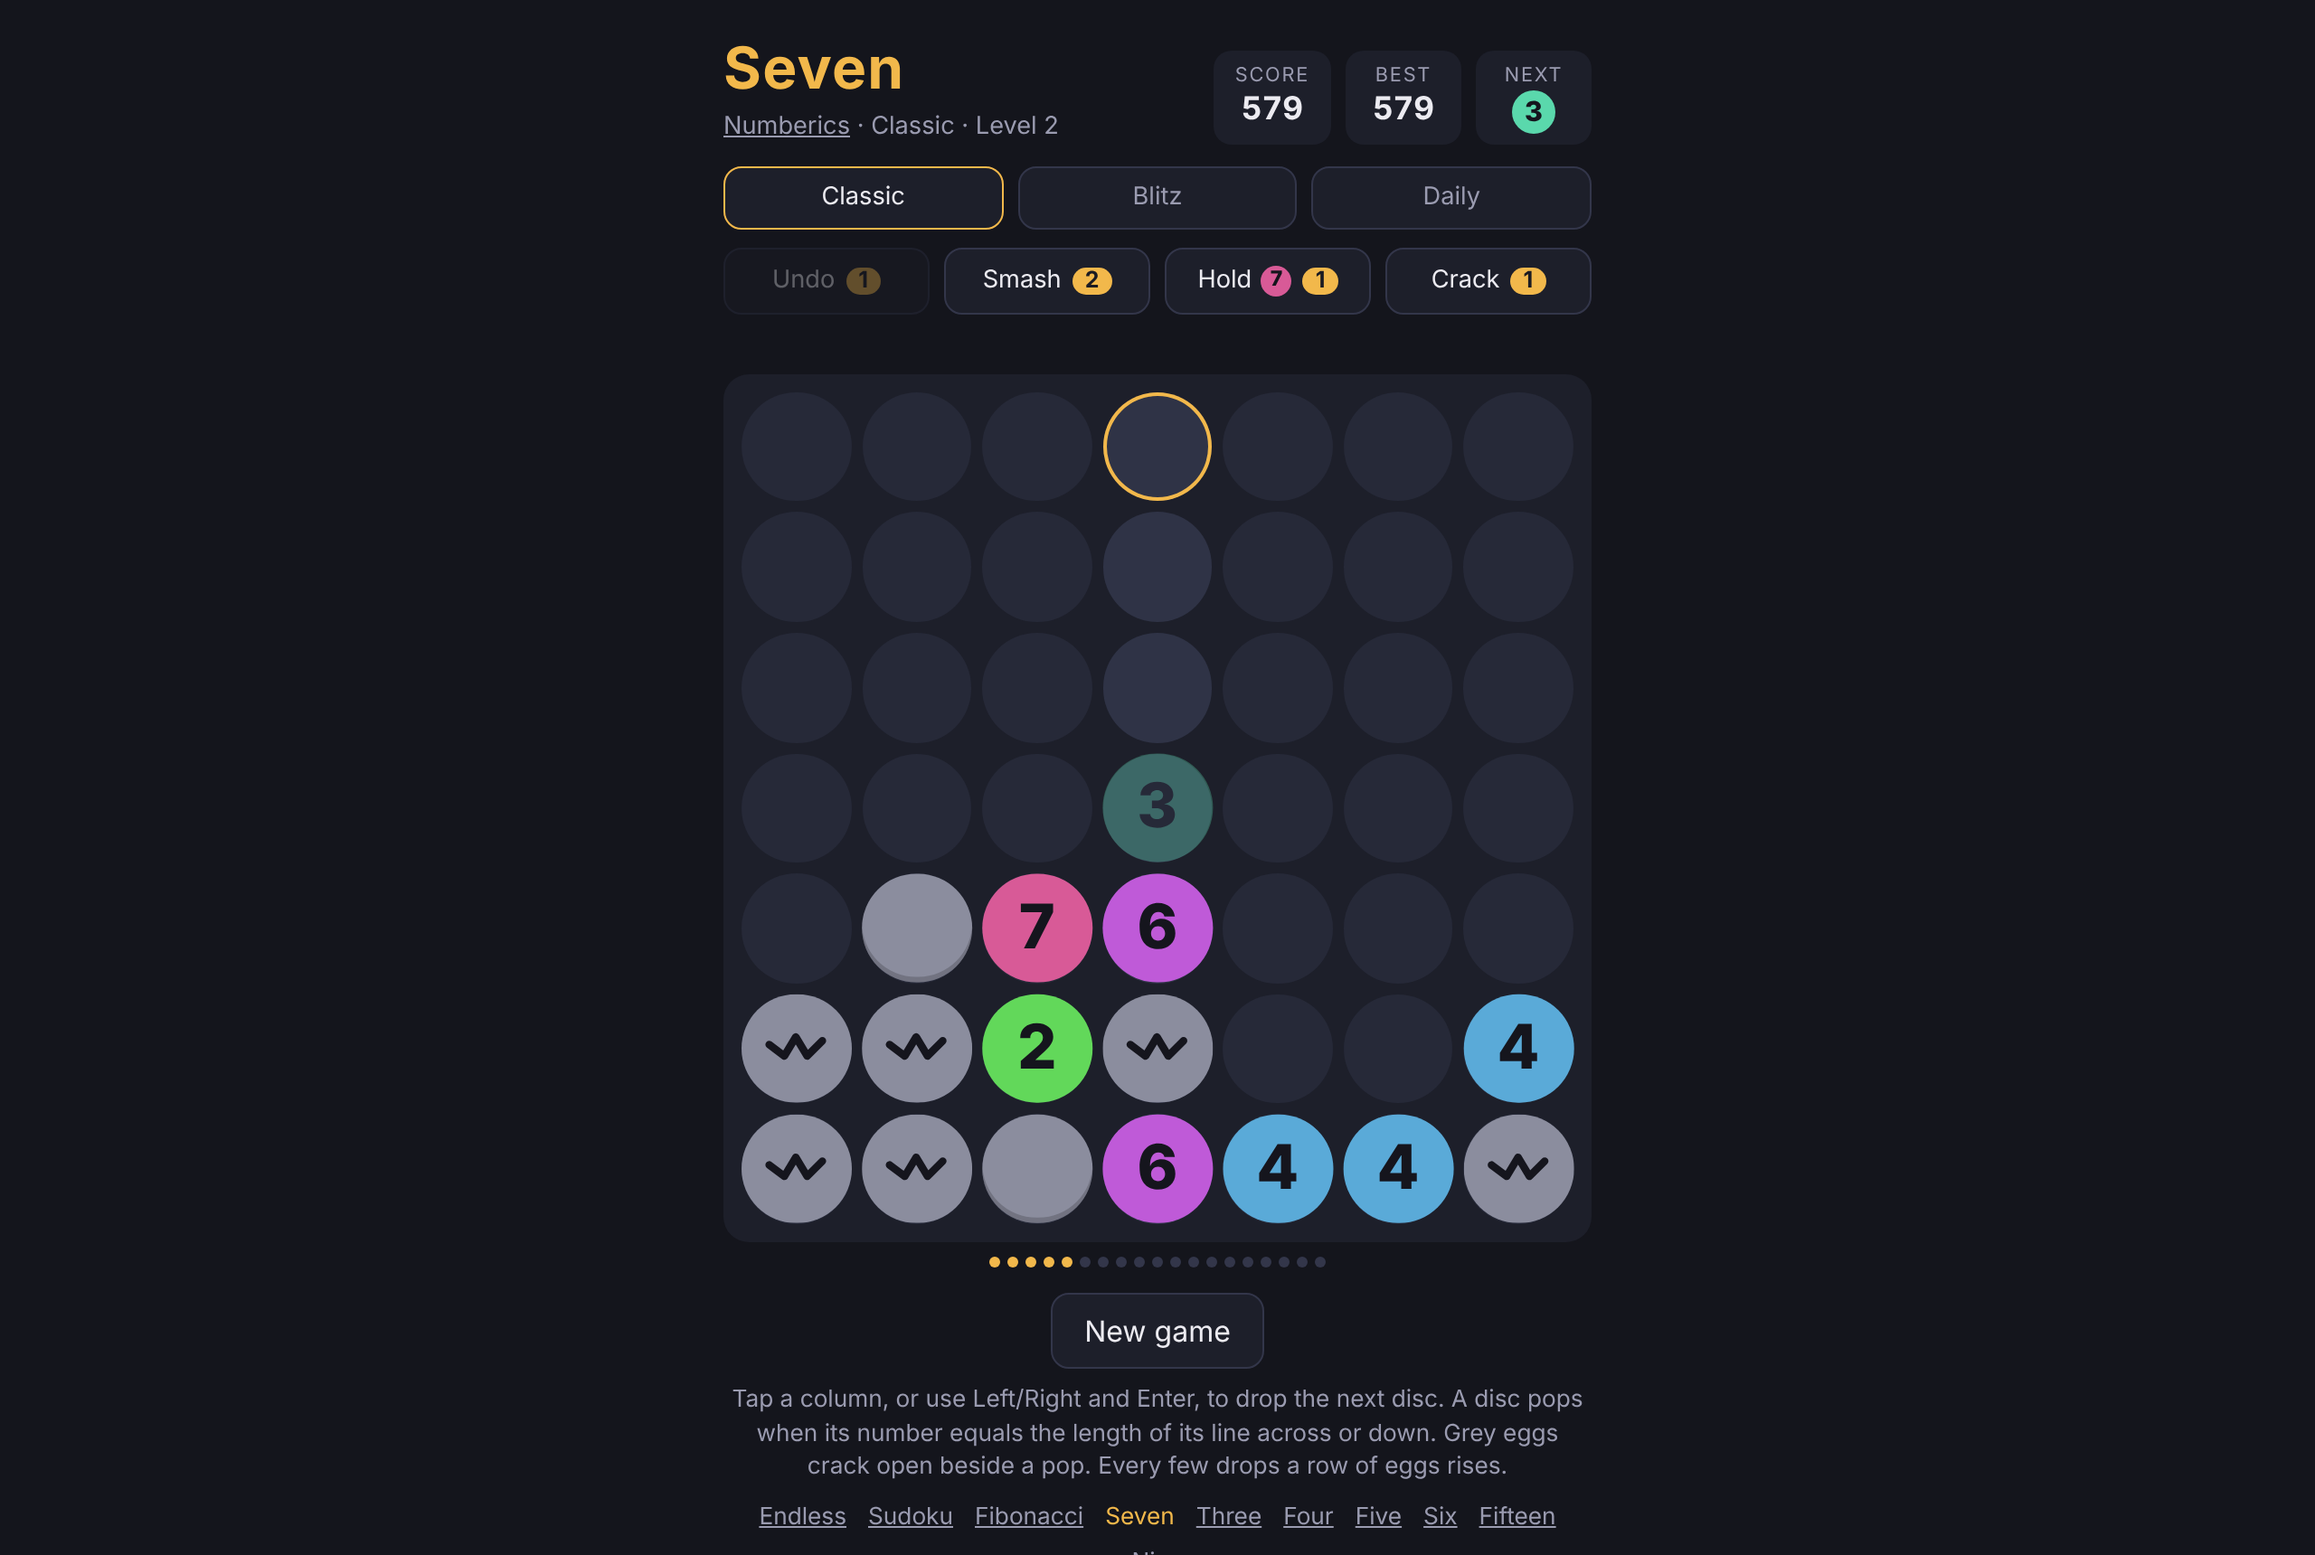
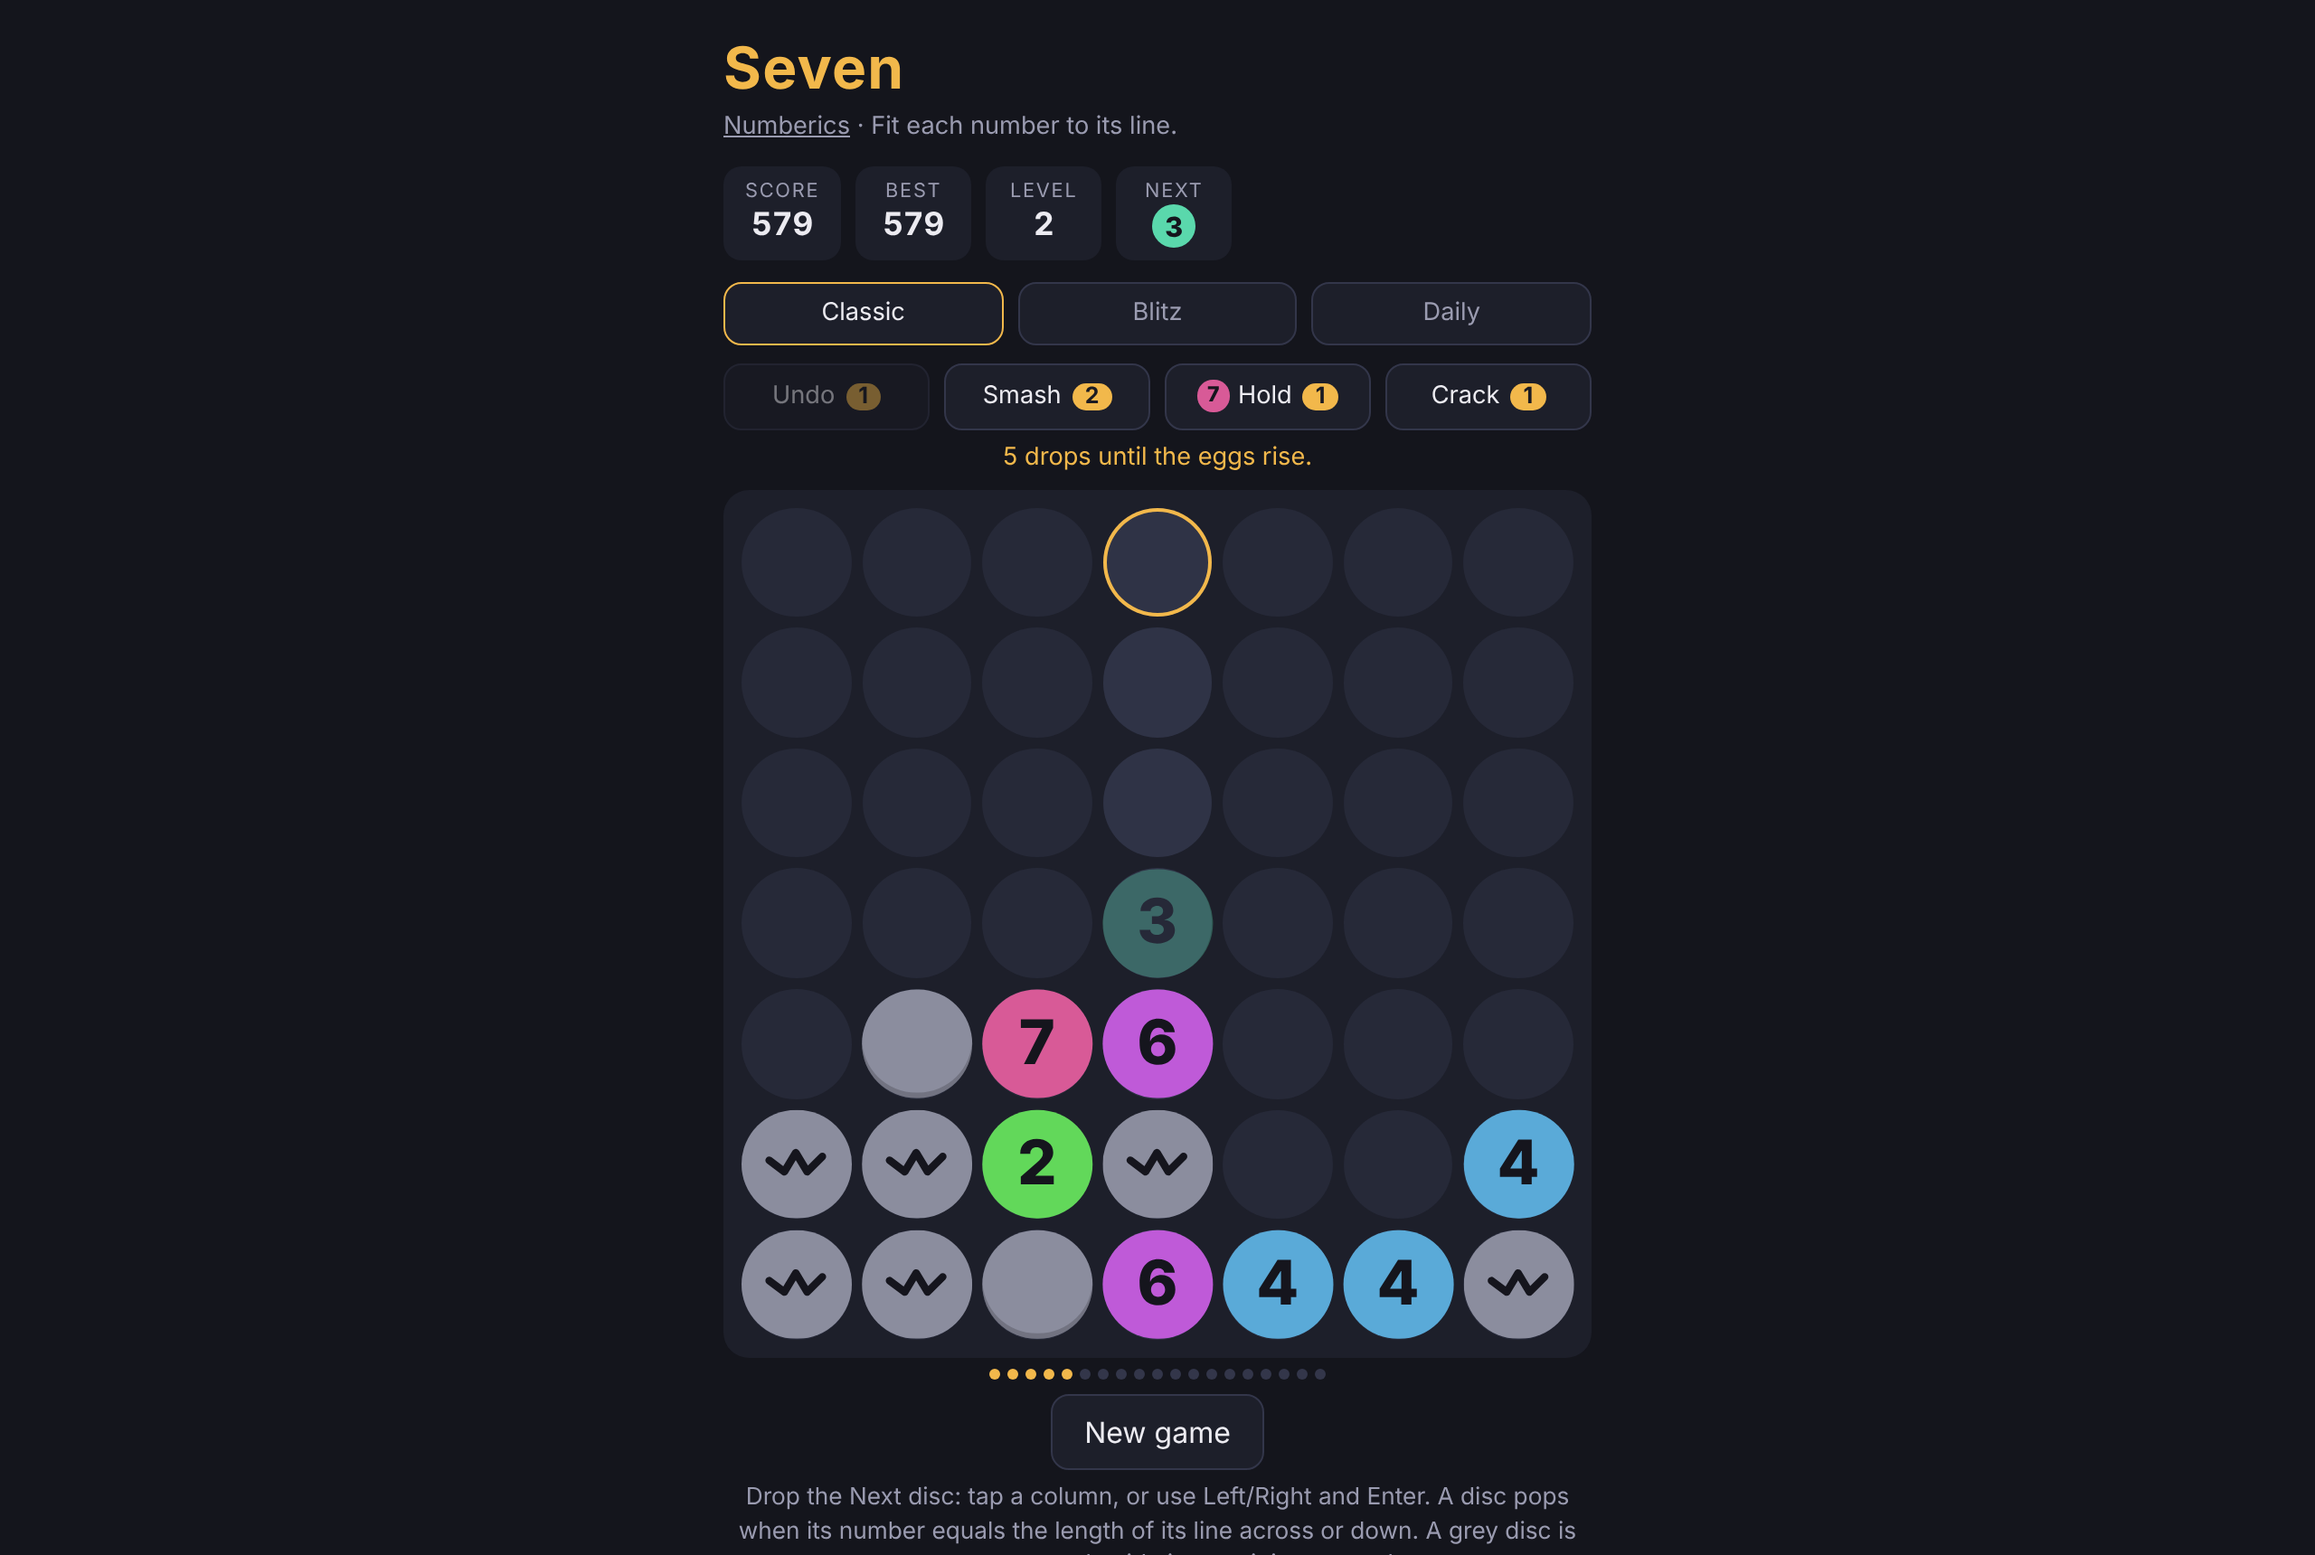
WIP: round 1 fixes in progress (snapshot)

diff --git a/seven/game.js b/seven/game.js
@@ -96,7 +96,7 @@
   function drawCursor() {
     Array.prototype.forEach.call(cellsEl.children, function (c, i) { c.classList.toggle("col", !targeting && !state.over && i % W === cursor); });
   }
-  var EARN = "Earn charges with a chain of 3 or more waves, or a Lucky Seven.";
+  var EARN = "Earn one with a chain of 3 waves or a Lucky Seven.";
   var DEFS = [
     { id: "undo", label: "Undo", desc: "Take back the last drop.", earn: EARN },
     { id: "smash", label: "Smash", desc: "Remove one disc.", earn: EARN },
@@ -104,8 +104,8 @@
     { id: "crack", label: "Crack", desc: "Crack every egg touching a disc.", earn: EARN },
   ];
   var HINT = {
-    smash: "Tap a disc to smash it, or use the arrows and Enter.",
-    crack: "Tap the well or press Enter to crack the marked eggs.",
+    smash: "Tap a disc, or arrows and Enter.",
+    crack: "Tap the well or Enter to crack.",
   };
   // why a power-up cannot act now (a reason string), or "" when it can (the count is checked by the tray)
   function why(id) {
@@ -130,8 +130,8 @@
   function hintText() {
     if (note) return note;
     if (targeting) return HINT[targeting] + " (Esc cancels)";
-    if (state.over) return !viewing ? "" : N.hasRoom(state.grid) ? "The rising eggs pushed the ringed discs out of the top. Tap the well for the summary."
-      : "The well is full and no power-up can act. Tap the well for the summary.";
+    if (state.over) return !viewing ? "" : N.hasRoom(state.grid) ? "Ringed discs were pushed out. Tap for the summary."
+      : "Full, and no power-up can act. Tap for the summary.";
     if (!N.hasRoom(state.grid)) return "The well is full. Use a power-up to make room.";
     return state.left === 1 ? "Eggs rise after this drop." : state.left + " drops until the eggs rise.";
   }
